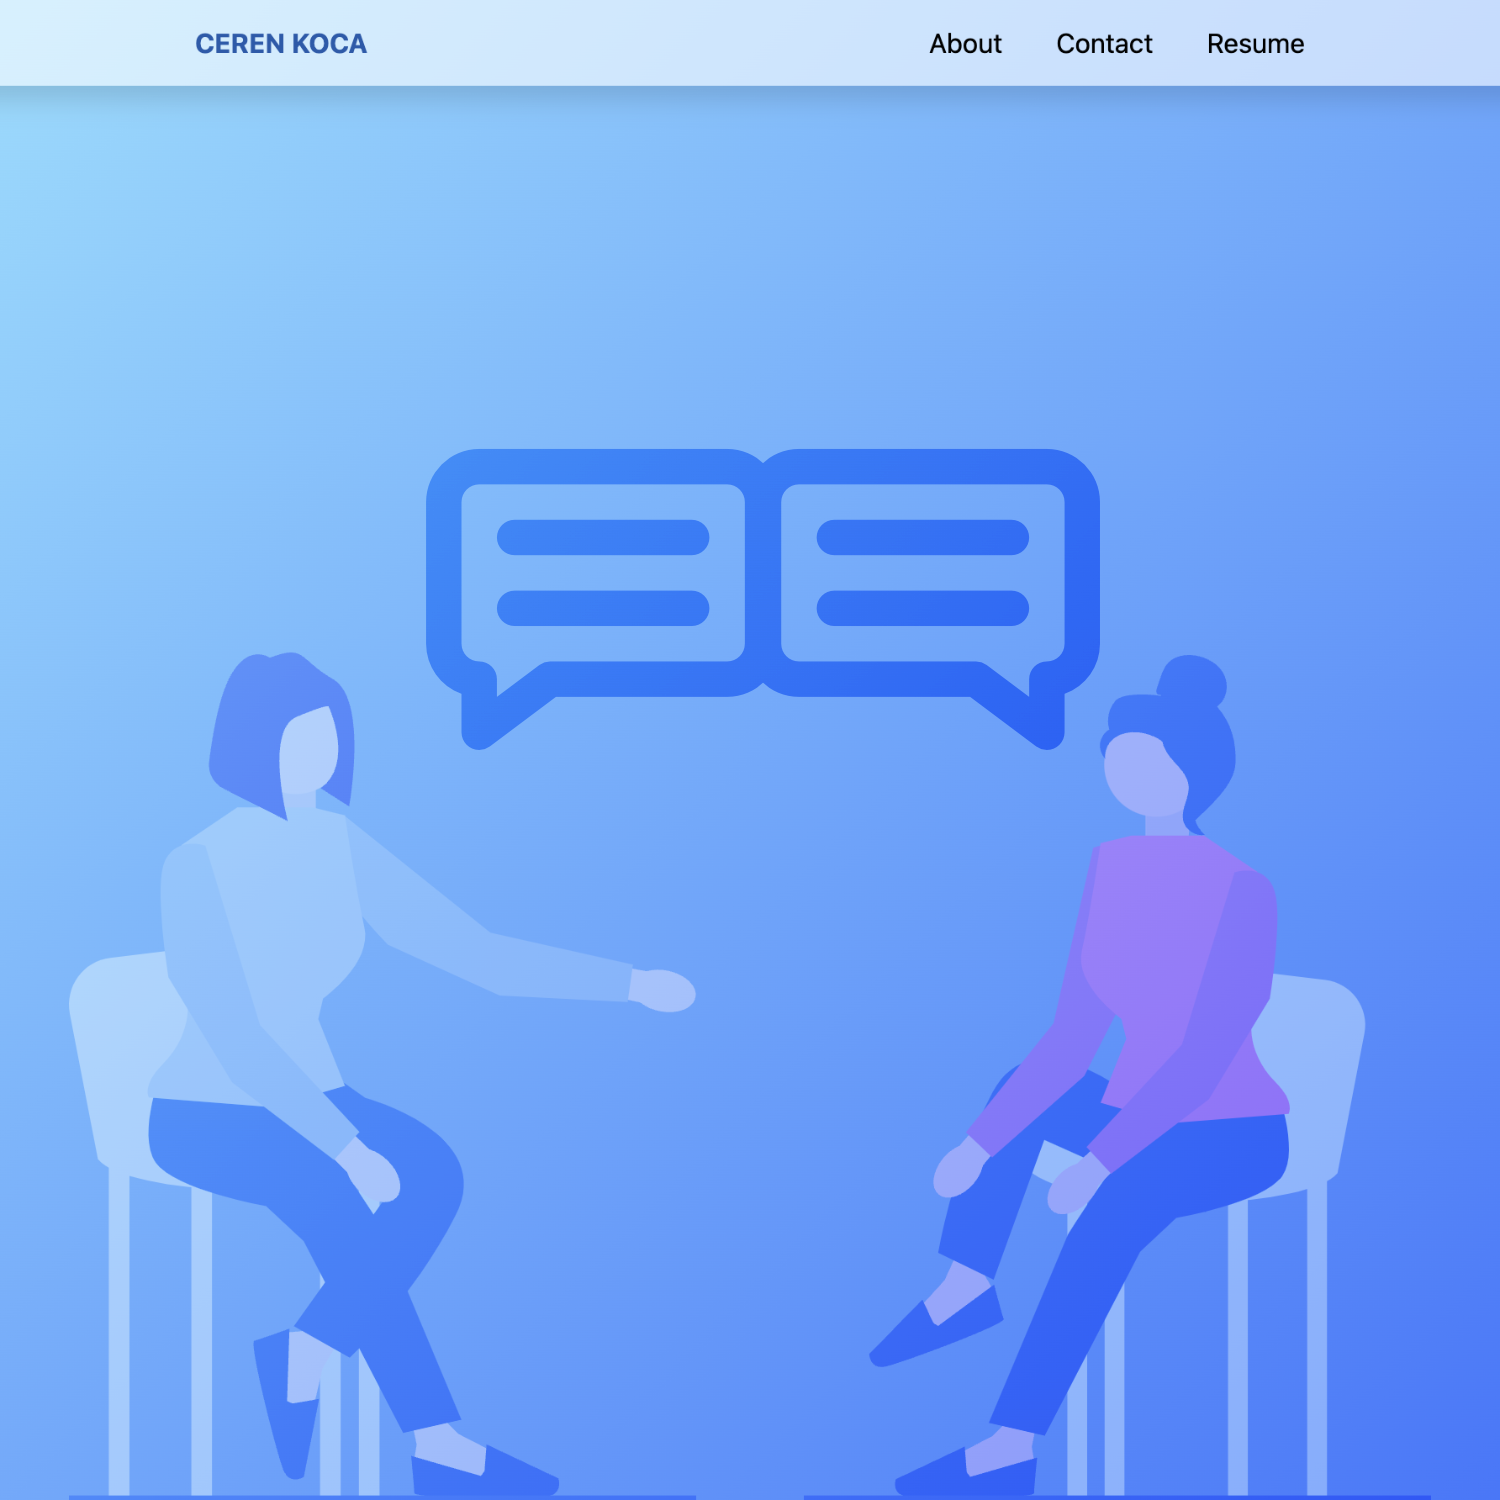
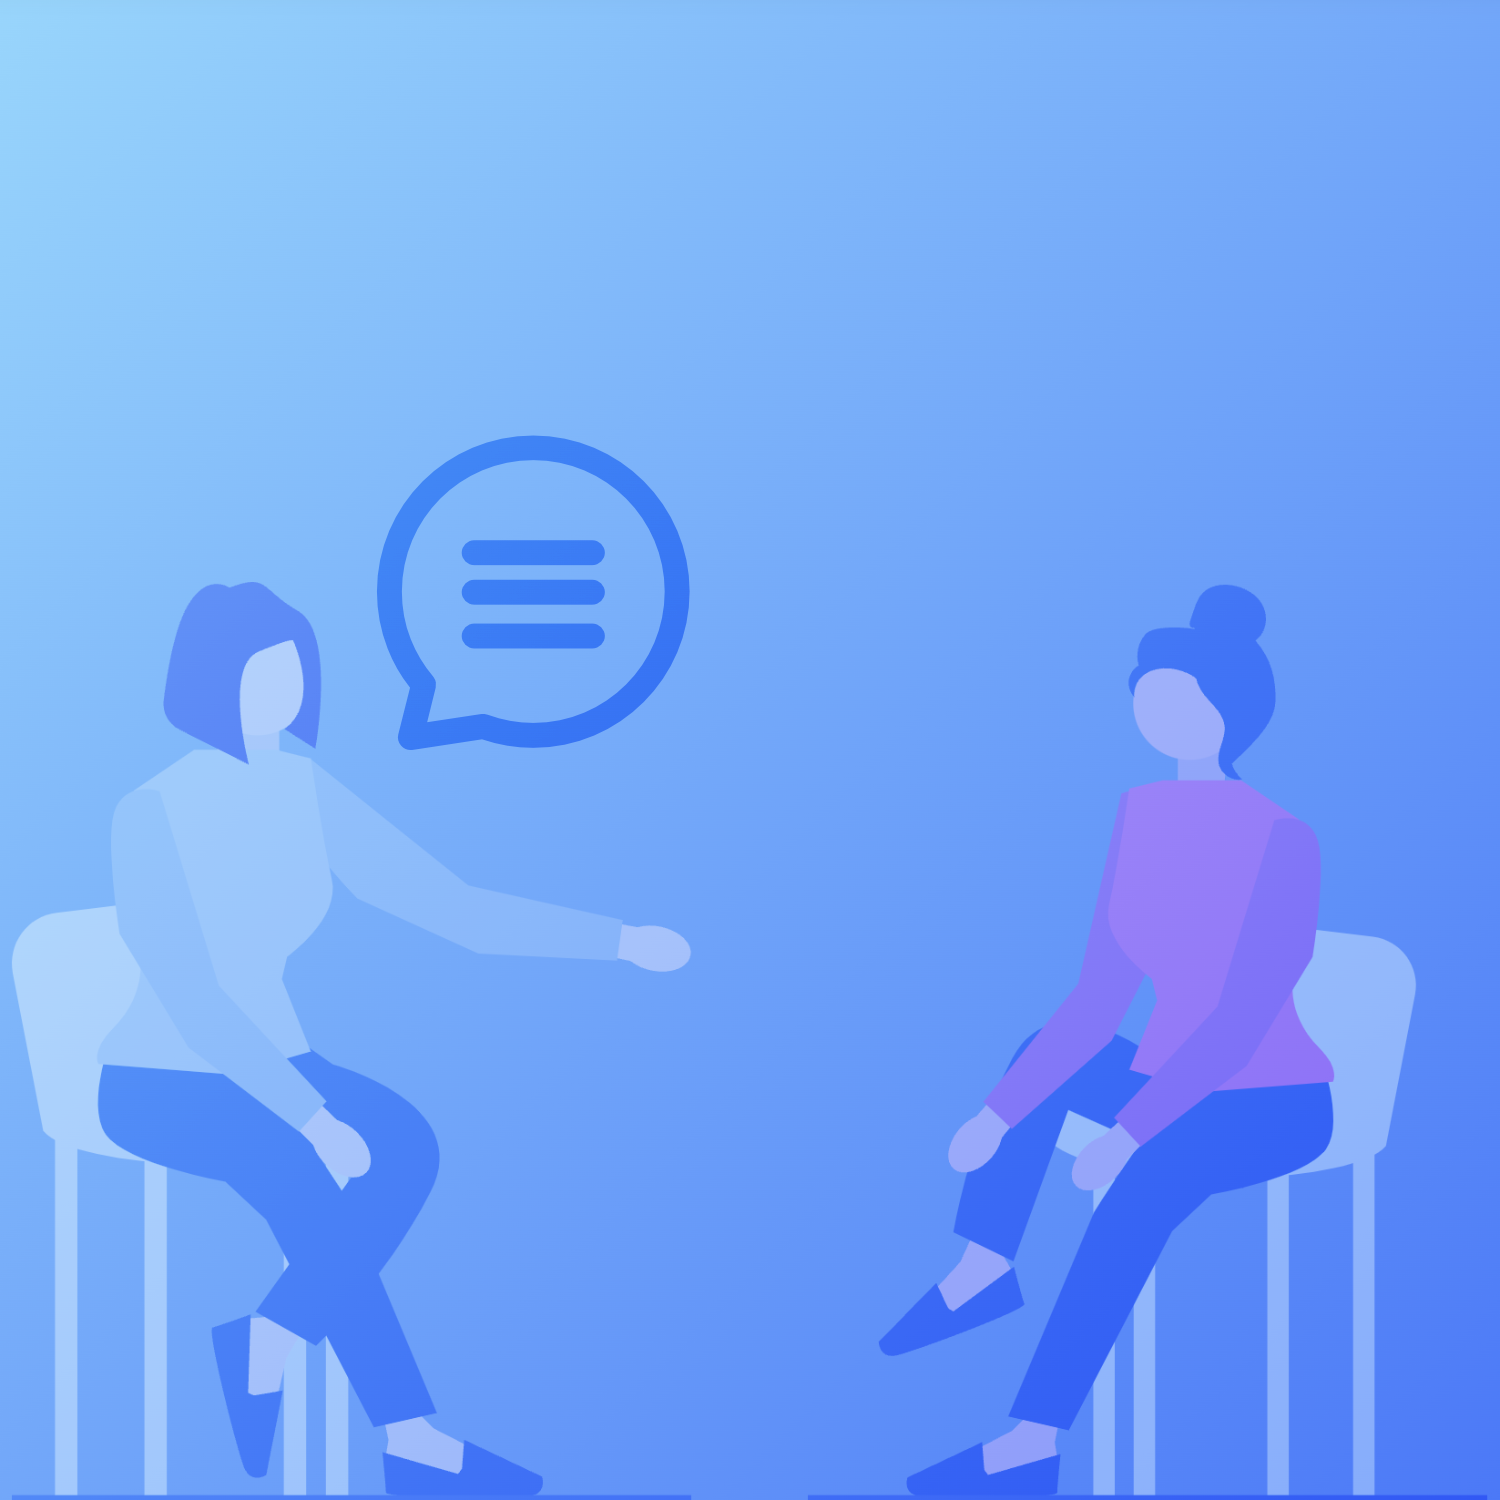
update

diff --git a/style.css b/style.css
@@ -162,7 +162,7 @@ main section {
 
 main section.landing {
     display: flex;
-    align-items: center;
+    align-items: flex-start;
     justify-content: center;
 }
 
